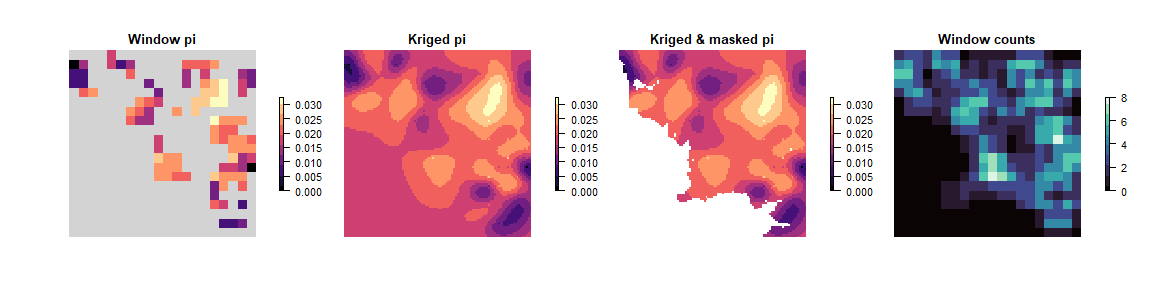
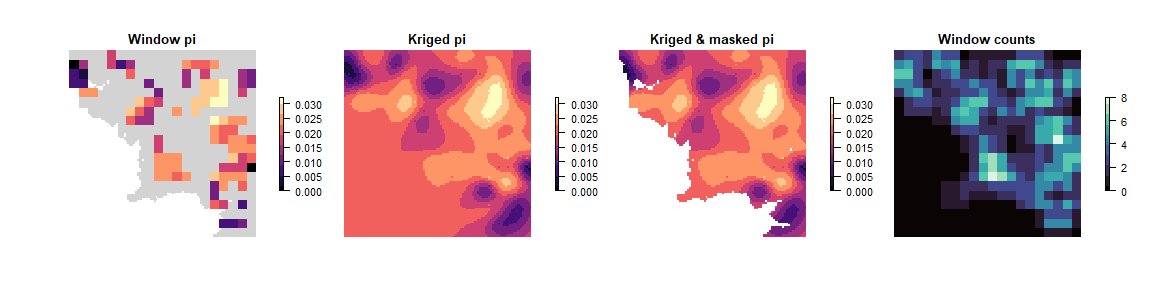
update README

diff --git a/README.md b/README.md
@@ -65,9 +65,9 @@ mgd <- mask_gd(kgd, lotr_lyr, minval = 0.01)
 
 # Plot results
 par(mfrow = c(1,4), oma = rep(2,4), mar = rep(2,4))
-plot_gd(wgd, main = "Window pi", bkg = lotr_lyr)
-plot_gd(kgd, main = "Kriged pi", breaks = 10)
-plot_gd(mgd, main = "Kriged & masked pi", breaks = 10)
+plot_gd(wgd, bkg = mgd,  main = "Window pi")
+plot_gd(kgd, main = "Kriged pi")
+plot_gd(mgd, main = "Kriged & masked pi")
 plot_count(wgd, main = "Window counts")
 ```
 
